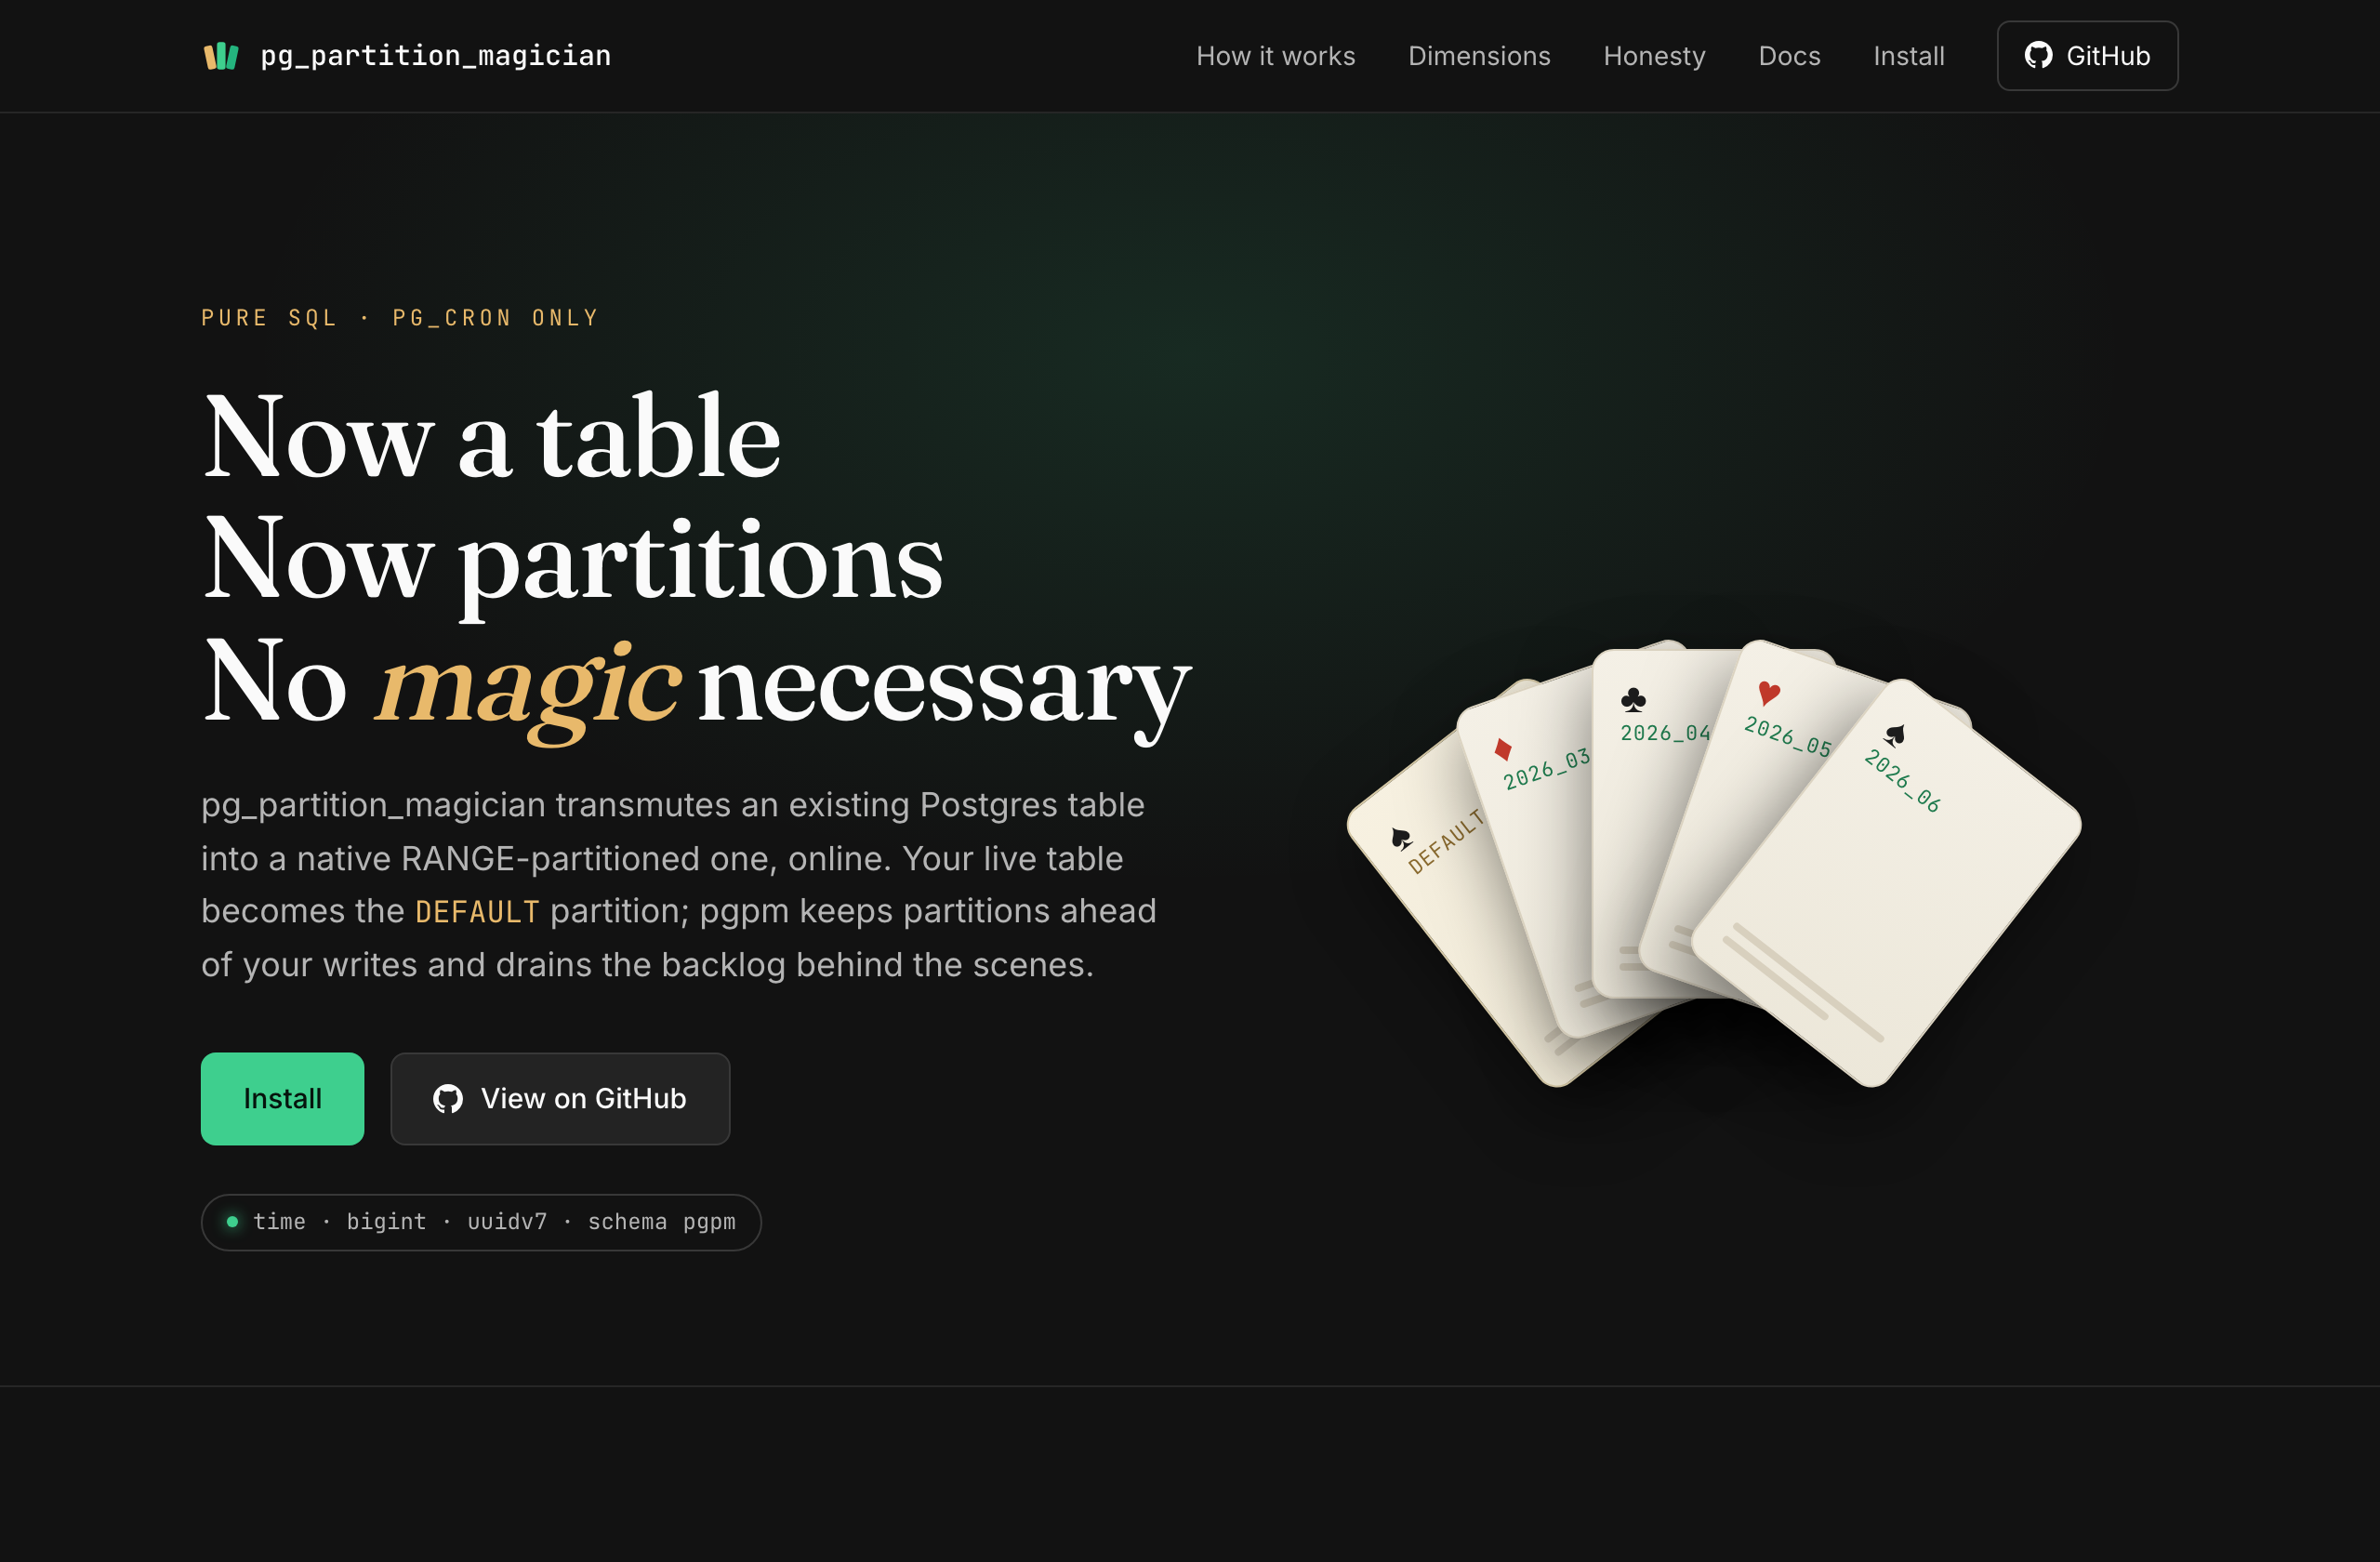
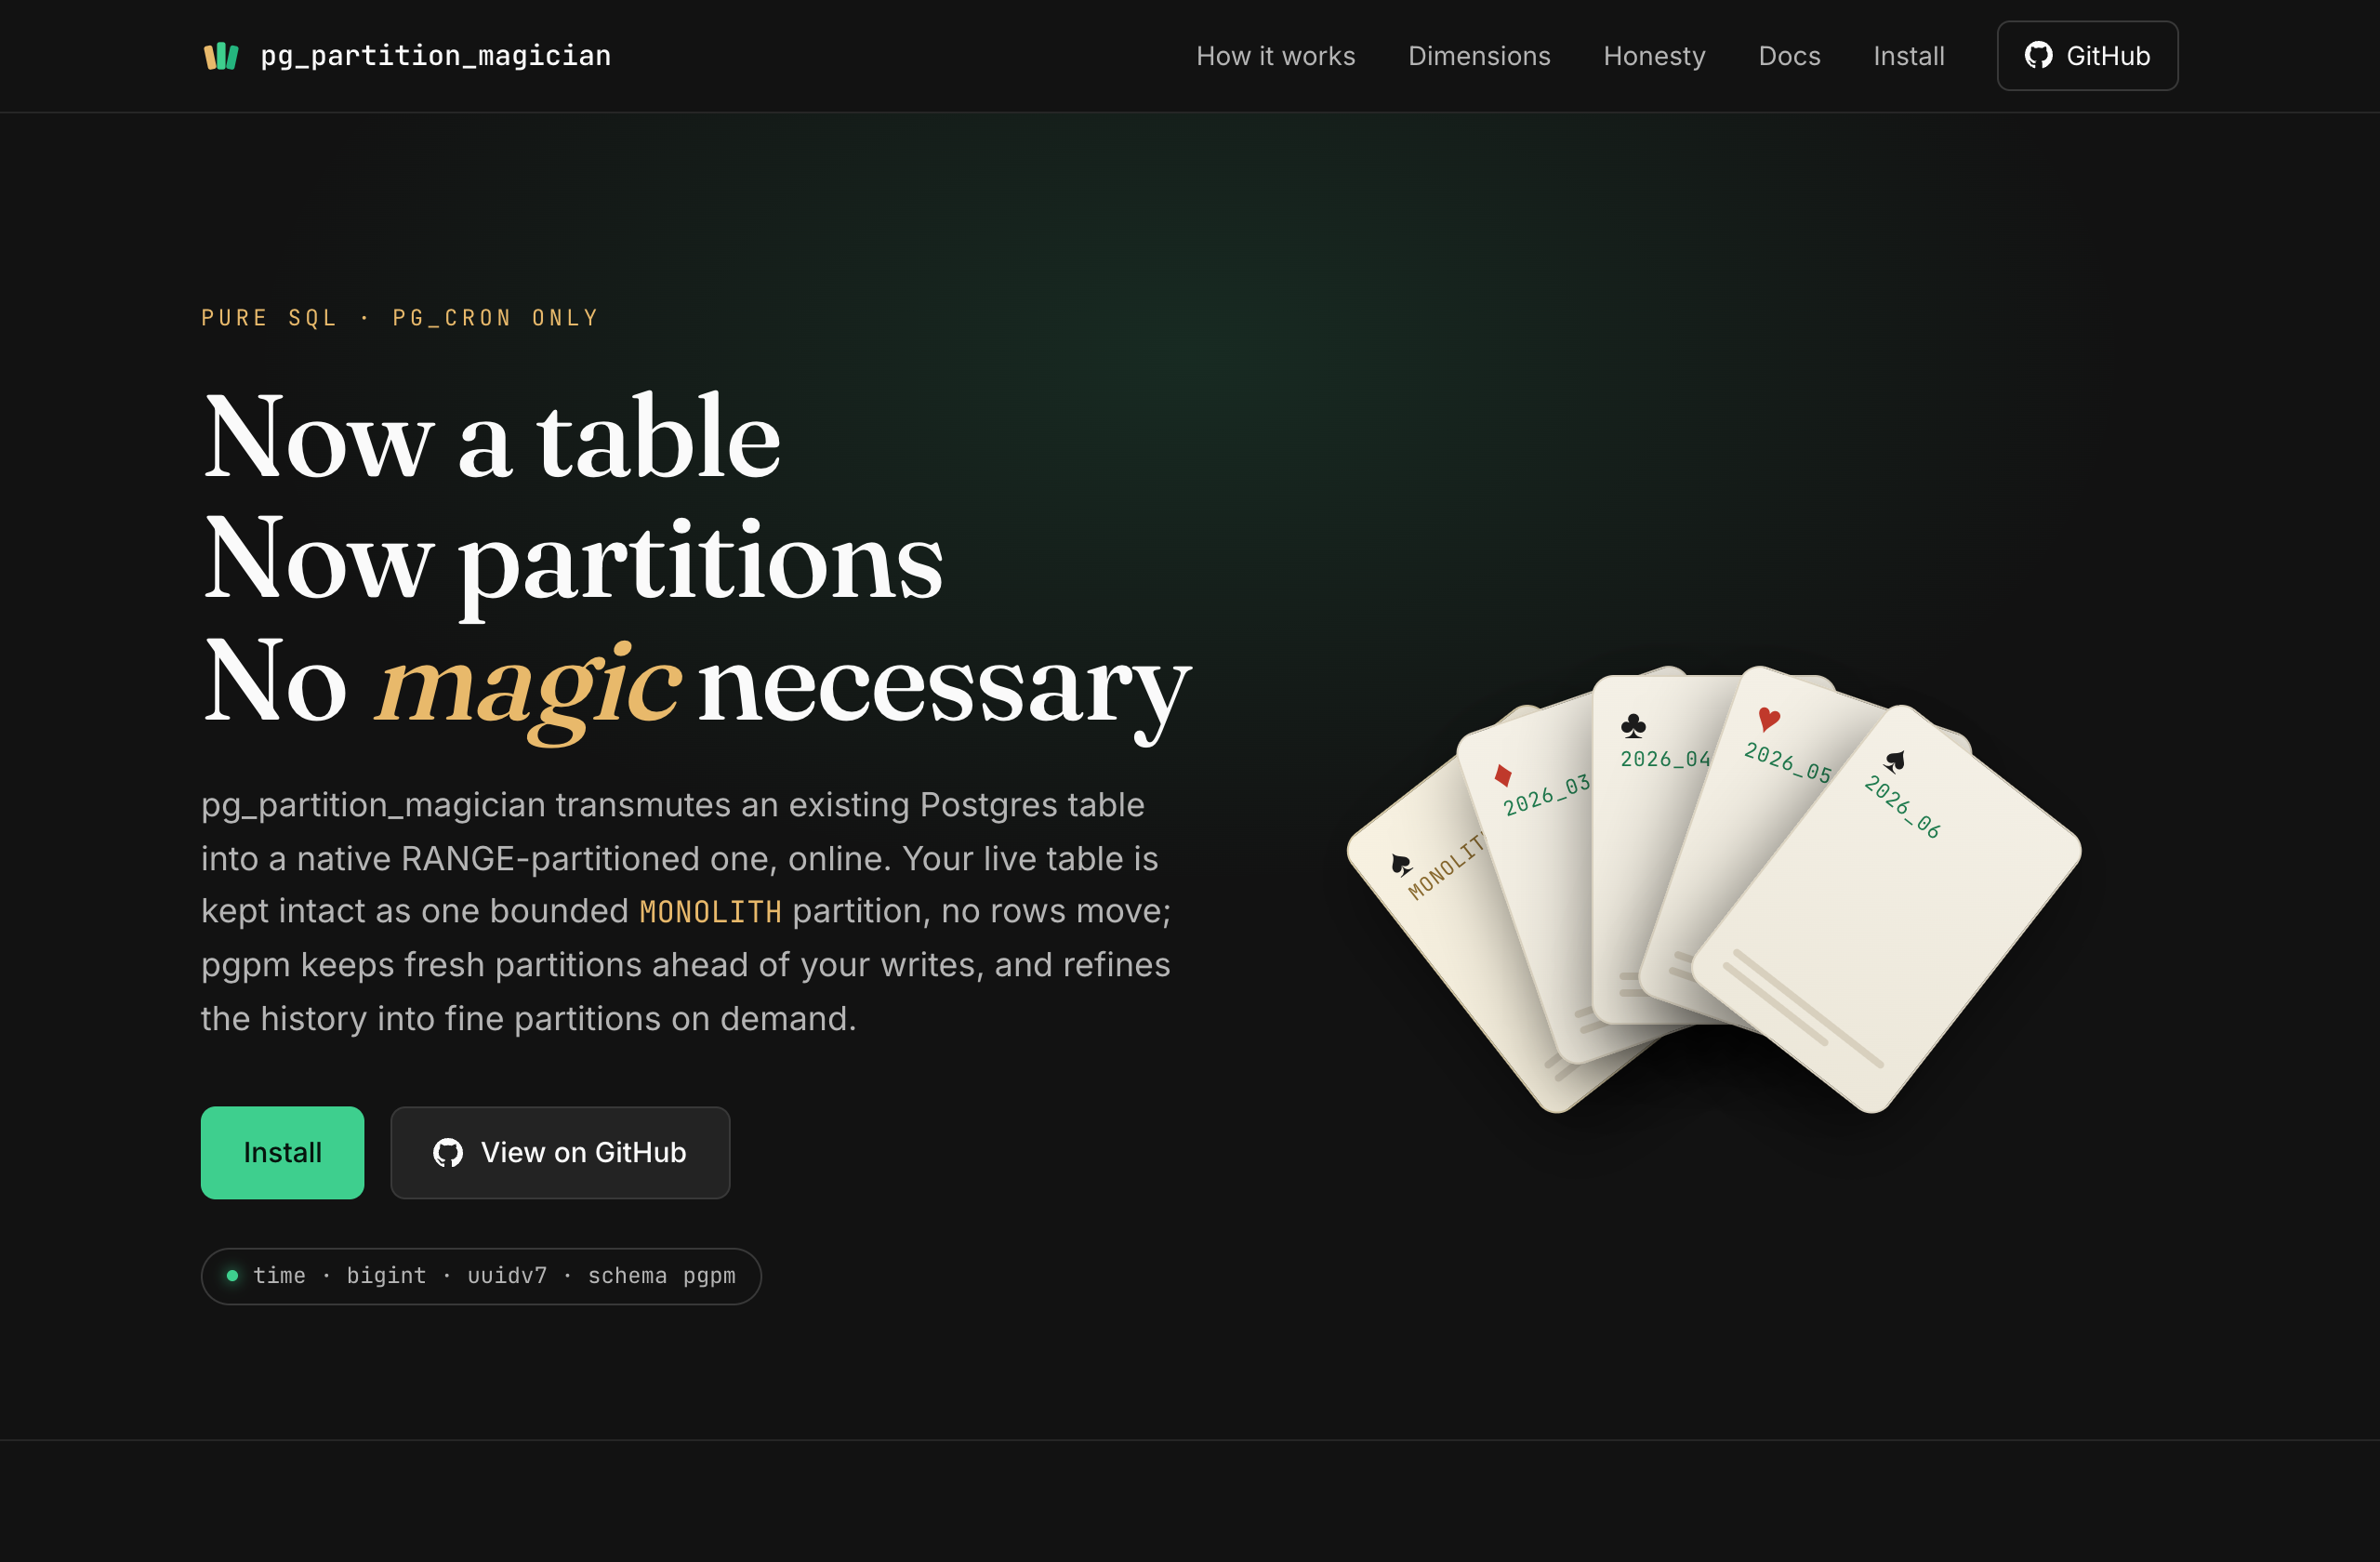
docs: rewrite the explainer for the monolith + refine model (content only) (#127)
* docs: rewrite the explainer for the monolith + refine model (content only)

The explainer still told the old story: the live table *becomes the DEFAULT*
partition and a perpetual *drain* empties the backlog. Update the content to the
shipped bounded-child model, with no change to the look, layout, animation, or chrome:

- Hero: the live table is kept intact as one bounded MONOLITH partition (no rows
  move); obtain keeps fresh partitions ahead; refine splits the history on demand.
- Move 2 (transmute): the old table attaches as the monolith child under a fresh
  empty DEFAULT net; untransmute reverses while the monolith holds the whole table.
- Move 4 (frontier): closed history lives in the coarse monolith, refined when you
  like; new rows land in obtained partitions, a stray falls to the empty DEFAULT.
- Move 5 (attach): the same NOT VALID + VALIDATE scan-skip attaches the monolith at
  cutover and every refined partition.
- Move 6: repurposed from drain to refine (copy, swap, drop; no dead tuples; the
  assistant drain demoted to clearing strays from the empty DEFAULT).
- Move 7 (maintain_all): obtain, assistant drain, retain, and optional refine.
- Honesty grid: FK note covers any row movement; DEFAULT is empty in steady state;
  the in-flight gap covers paced drain and cross-tick refine; test count 192 -> 289.

Only text and diagram labels changed; the CSS, scroll/fan JS, and all styling are
byte-for-byte unchanged.
[…]

Changed region(s): [[0.0625, 0.5571, 0.5, 0.8357], [0.5625, 0.4024, 0.875, 0.7119]]

diff --git a/index.html b/index.html
@@ -130,7 +130,7 @@
     .card .lbl { font-family: var(--font-mono); font-size: 11px; color: #6B6357; letter-spacing: 0.04em; }
     .card .rows { height: 4px; border-radius: 2px; background: #D8D0BE; }
     .card .rows + .rows { margin-top: 5px; width: 70%; }
-    /* role coding survives on the ivory faces via the label: bronze = the original DEFAULT, green = the new partitions */
+    /* role coding survives on the ivory faces via the label: bronze = the original table (now the monolith), green = the new fine partitions */
     .card.is-default { border-color: #D8CBA8; background: linear-gradient(160deg, #F7F1E1, #EFE8D5); }
     .card.is-default .lbl { color: #8A6A2E; }
     .card.is-part .lbl { color: #1E7A4D; }
@@ -405,7 +405,7 @@
       <div>
         <span class="eyebrow">Pure SQL · pg_cron only</span>
         <h1 class="display">Now a table<br>Now partitions<br>No <em>magic</em> necessary</h1>
-        <p class="lede">pg_partition_magician transmutes an existing Postgres table into a native RANGE-partitioned one, online. Your live table becomes the <code style="font-family:var(--font-mono);font-size:0.9em;color:var(--brass)">DEFAULT</code> partition; pgpm keeps partitions ahead of your writes and drains the backlog behind the scenes.</p>
+        <p class="lede">pg_partition_magician transmutes an existing Postgres table into a native RANGE-partitioned one, online. Your live table is kept intact as one bounded <code style="font-family:var(--font-mono);font-size:0.9em;color:var(--brass)">MONOLITH</code> partition, no rows move; pgpm keeps fresh partitions ahead of your writes, and refines the history into fine partitions on demand.</p>
         <div class="hero-actions">
           <a class="btn btn-primary" href="install.html">Install</a>
           <a class="btn btn-ghost" href="https://github.com/dventimisupabase/pg_partition_magician" target="_blank" rel="noopener">
@@ -418,7 +418,7 @@
 
       <div class="stage">
         <div class="fan" id="fan" aria-hidden="true">
-          <div class="card is-default"><div><div class="suit">♠</div><div class="lbl">DEFAULT</div></div><div><div class="rows"></div><div class="rows"></div></div></div>
+          <div class="card is-default"><div><div class="suit">♠</div><div class="lbl">MONOLITH</div></div><div><div class="rows"></div><div class="rows"></div></div></div>
           <div class="card is-part"><div><div class="suit red">♦</div><div class="lbl">2026_03</div></div><div><div class="rows"></div><div class="rows"></div></div></div>
           <div class="card is-part"><div><div class="suit">♣</div><div class="lbl">2026_04</div></div><div><div class="rows"></div><div class="rows"></div></div></div>
           <div class="card is-part"><div><div class="suit red">♥</div><div class="lbl">2026_05</div></div><div><div class="rows"></div><div class="rows"></div></div></div>
@@ -459,14 +459,14 @@
           <div class="beat-copy">
             <span class="move"><span class="move-n">2</span> The switch &middot; <code>transmute</code></span>
             <h3>The table you query is swapped for an identical one, mid-show.</h3>
-            <p><code>transmute()</code> renames your live table aside (<code>events</code> &rarr; <code>events_default</code>) and builds a partitioned parent under the <em>same name</em>, with the old table attached as its <code>DEFAULT</code>. Same name, same rows, a catalog-only swap the app never sees. The one requirement: the partition key must already be in the primary key (move 3); if not, <code>transmute</code> refuses and tells you how, rather than mangling it. And it reverses cleanly, until the first real partition exists, <code>untransmute</code> puts the table back exactly as it was.</p>
+            <p><code>transmute()</code> renames your live table aside and builds a partitioned parent under the <em>same name</em>, attaching the old table intact as one bounded <em>monolith</em> child that holds the whole history, with a fresh empty <code>DEFAULT</code> as the safety net. No rows move: same name, same data, a catalog-only swap the app never sees. The one requirement: the partition key must already be in the primary key (move 3); if not, <code>transmute</code> refuses and tells you how, rather than mangling it. And it reverses cleanly, while the monolith still holds the whole table, <code>untransmute</code> puts it back exactly as it was.</p>
           </div>
           <figure class="fig" aria-hidden="true">
             <div class="dg dg-switch">
               <div class="app"><code>SELECT &hellip; FROM events</code><span class="arr">&darr;</span></div>
               <div class="swapstage">
                 <div class="box parent stage-2"><span class="tag">events &middot; PARTITIONED</span></div>
-                <div class="box def stage-1"><span class="tag tag-rename">events <span class="becomes">&rarr; events_default</span></span><span class="pin">DEFAULT</span><i class="rows"></i><i class="rows"></i></div>
+                <div class="box def stage-1"><span class="tag tag-rename">events <span class="becomes">&rarr; the monolith</span></span><span class="pin">MONOLITH</span><i class="rows"></i><i class="rows"></i></div>
               </div>
             </div>
           </figure>
@@ -493,22 +493,22 @@
           <div class="beat-copy">
             <span class="move"><span class="move-n">4</span> The one rule of the act</span>
             <h3>Never touch the interval that's live.</h3>
-            <p>Everything keys off the <b style="color:var(--brass)">frontier</b>: the line between settled past and live present. Intervals behind it are <b style="color:var(--green)">closed</b>, safe to rebuild into real partitions; the one <em>straddling</em> it is <b style="color:var(--brass)">open</b>, still taking writes, and pgpm's lone rule is to leave it be. New rows land in a partition <b style="color:var(--green)">obtained</b> ahead, or in <code>DEFAULT</code>. Once the frontier passes and the interval closes, only <em>then</em> is it reorganized.</p>
+            <p>Everything keys off the <b style="color:var(--brass)">frontier</b>: the line between settled past and live present. Behind it sits the <b style="color:var(--green)">closed</b> history, in one coarse <b style="color:var(--brass)">monolith</b>, safe to refine into fine partitions whenever you like; the one <em>straddling</em> it is <b style="color:var(--brass)">open</b>, still taking writes, and pgpm's lone rule is to leave it be. Ahead of it, partitions are <b style="color:var(--green)">obtained</b> in advance, so new rows always land in a real partition (only a stray falls to the empty <code>DEFAULT</code> net). Nothing is reorganized until it has closed.</p>
           </div>
           <figure class="fig" aria-hidden="true">
             <div class="dg dg-frontier">
               <div class="writes"><span class="arr">writes &darr;</span></div>
               <div class="timeline">
-                <div class="ival part">Jan</div>
+                <div class="ival tail">Jan<span class="mini">in monolith</span></div>
                 <div class="ival part">Feb</div>
-                <div class="ival tail">Mar<span class="mini">in DEFAULT</span></div>
+                <div class="ival part">Mar</div>
                 <div class="ival open">Apr<span class="mini">open &middot; live</span></div>
                 <div class="ival future">May</div>
                 <div class="ival future">Jun</div>
                 <div class="frontier"><span>frontier &middot; now</span></div>
               </div>
               <div class="axis"></div>
-              <div class="legend"><span class="k part">real partition</span><span class="k tail">closed tail &middot; DEFAULT</span><span class="k open">open</span><span class="k future">obtained ahead</span></div>
+              <div class="legend"><span class="k part">fine partition</span><span class="k tail">in the monolith</span><span class="k open">open</span><span class="k future">obtained ahead</span></div>
             </div>
           </figure>
         </div>
@@ -518,7 +518,7 @@
           <div class="beat-copy">
             <span class="move"><span class="move-n">5</span> The misdirection</span>
             <h3>Attaching a partition looks like it needs a full scan. It doesn't.</h3>
-            <p>A normal <code>ATTACH</code> scans all of <code>DEFAULT</code> under <code>ACCESS EXCLUSIVE</code> to prove no row belongs in the new partition. pgpm proves it first: <code>CHECK&nbsp;&hellip;&nbsp;NOT&nbsp;VALID</code> is instant, then <code>VALIDATE</code> scans under a gentle <code>SHARE UPDATE EXCLUSIVE</code> lock that lets reads <em>and</em> writes continue, so the <code>ATTACH</code> skips its scan. A 4M-row attach: <strong style="color:var(--fg)">101&nbsp;ms &rarr; 0.4&nbsp;ms</strong>.</p>
+            <p>A normal <code>ATTACH</code> scans the whole table being attached under <code>ACCESS EXCLUSIVE</code> to prove every row honors the bound. pgpm proves it first: <code>CHECK&nbsp;&hellip;&nbsp;NOT&nbsp;VALID</code> is instant, then <code>VALIDATE</code> scans under a gentle <code>SHARE UPDATE EXCLUSIVE</code> lock that lets reads <em>and</em> writes continue, so the <code>ATTACH</code> skips its scan. The same move attaches the monolith at cutover and every refined partition after. A 4M-row attach: <strong style="color:var(--fg)">101&nbsp;ms &rarr; 0.4&nbsp;ms</strong>.</p>
           </div>
           <figure class="fig" aria-hidden="true">
             <div class="dg dg-lock">
@@ -536,13 +536,13 @@
         <!-- 6 -->
         <div class="beat reveal">
           <div class="beat-copy">
-            <span class="move"><span class="move-n">6</span> Vanishing the backlog &middot; <code>drain</code></span>
-            <h3>The old rows leave <code>DEFAULT</code> a chunk at a time.</h3>
-            <p>The closed tail leaves <code>DEFAULT</code> in small microbatches, <code>DELETE&nbsp;&hellip;&nbsp;RETURNING</code> a chunk, <code>INSERT</code> it home, repeat, paced and pausable so the workload never blocks. One honest cost: until an interval finishes attaching, its already-moved rows sit in an unattached child, so a mid-drain read of the parent undercounts it. <code>pgpm.snapshot</code> reads the complete set.</p>
+            <span class="move"><span class="move-n">6</span> Reshaping the history &middot; <code>refine</code></span>
+            <h3>The coarse history splits into fine partitions, by copying.</h3>
+            <p>The history starts as one coarse monolith. <code>refine</code> splits it by <em>copying</em>: it reads a range into a fresh, born-validated partition, swaps it in, and drops the source, online and a chunk at a time. Because it copies instead of deleting, there are no dead tuples and no vacuum. It is optional, a coarse monolith is a correct, permanent state, and refine is what restores partition pruning and fine-grained retention. (The leading-edge <code>DEFAULT</code> stays empty; the assistant <code>drain</code> clears the rare stray that lands there.) Because the monolith stays whole and attached until one atomic swap, refine never undercounts the parent the way the assistant <code>drain</code> can. The one honest cost is transient disk, about 2x the span while the copies and the source briefly coexist.</p>
           </div>
           <figure class="fig" aria-hidden="true">
             <div class="dg dg-drain">
-              <div class="box def drainbox"><span class="tag">DEFAULT</span><i class="lvl"></i><span class="chunk c1"></span><span class="chunk c2"></span><span class="chunk c3"></span></div>
+              <div class="box def drainbox"><span class="tag">MONOLITH</span><i class="lvl"></i><span class="chunk c1"></span><span class="chunk c2"></span><span class="chunk c3"></span></div>
               <div class="parts">
                 <div class="box part p1"><span class="tag">2026_01</span></div>
                 <div class="box part p2"><span class="tag">2026_02</span></div>
@@ -557,7 +557,7 @@
           <div class="beat-copy">
             <span class="move"><span class="move-n">7</span> The act runs itself &middot; <code>maintain_all</code></span>
             <h3>One <code>pg_cron</code> tick repeats every move, and shows its hands.</h3>
-            <p>One scheduled call ties it together: <b style="color:var(--green)">obtain</b> stocks the future, <b style="color:var(--green)">drain</b> empties the closed tail, <b style="color:var(--green)">retain</b> drops cold partitions, looping on <code>pg_cron</code> with every step written to <code>pgpm.log</code>, the magician keeping his hands open. It starts <em>paused</em>: <code>resume()</code> to go live, <code>pause()</code> to stop.</p>
+            <p>One scheduled call ties it together: <b style="color:var(--green)">obtain</b> stocks the future, the assistant <b style="color:var(--green)">drain</b> keeps the <code>DEFAULT</code> empty, <b style="color:var(--green)">retain</b> drops cold partitions, and, once you enable it, <b style="color:var(--green)">refine</b> splits the history a chunk per tick, looping on <code>pg_cron</code> with every step written to <code>pgpm.log</code>, the magician keeping his hands open. It starts <em>paused</em>: <code>resume()</code> to go live, <code>pause()</code> to stop.</p>
           </div>
           <figure class="fig" aria-hidden="true">
             <div class="dg dg-loop">
@@ -622,19 +622,19 @@
         </div>
         <div class="truth reveal">
           <div class="mk"><svg viewBox="0 0 20 20"><path d="M7 10l2 2 4-4"/><circle cx="10" cy="10" r="7.5"/></svg></div>
-          <div><h3>Foreign keys, preserved</h3><p>pgpm never rewrites the primary key, so the unique key an incoming FK references survives the conversion. With <code>p_incoming_fks =&gt; 'preserve'</code>, each FK is dropped for the move and re-added against the new parent once the drain is idle, no denormalization.</p></div>
+          <div><h3>Foreign keys, preserved</h3><p>pgpm never rewrites the primary key, so the unique key an incoming FK references survives the conversion. With <code>p_incoming_fks =&gt; 'preserve'</code>, each FK is dropped for any row movement and re-added against the new parent once the move is idle, no denormalization.</p></div>
         </div>
         <div class="truth reveal">
           <div class="mk"><svg viewBox="0 0 20 20"><path d="M10 3l6 3v4c0 4-2.6 6-6 7-3.4-1-6-3-6-7V6z"/></svg></div>
-          <div><h3>A safety net, always</h3><p>The <code>DEFAULT</code> partition stays. A row with no real partition lands there, never lost, and a check function flags it.</p></div>
+          <div><h3>A safety net, always</h3><p>The <code>DEFAULT</code> partition is always present, and empty in steady state. A row with no real partition lands there, never lost, and a check function flags it.</p></div>
         </div>
         <div class="truth reveal">
           <div class="mk"><svg viewBox="0 0 20 20"><circle cx="9" cy="9" r="5.5"/><path d="M13 13l4 4"/></svg></div>
-          <div><h3>One gap, in the open</h3><p>While an interval drains, its moved rows live in a not-yet-attached child, so a mid-drain read of the parent undercounts it, and a write to a moved row no-ops. <code>pgpm.snapshot</code> reads the complete set; append-only and time-local tables are immune, and nothing is lost.</p></div>
+          <div><h3>One gap, in the open</h3><p>While the paced assistant <code>drain</code> runs, its rows briefly live in a not-yet-attached child, so a mid-move read of the parent undercounts it and a write to a moved row no-ops. <code>refine</code> never opens this gap (it copies, leaving every row in the monolith until an atomic swap). <code>pgpm.snapshot</code> reads the complete set, <code>drain_all()</code> is gap-free too, and nothing is lost.</p></div>
         </div>
         <div class="truth reveal">
           <div class="mk"><svg viewBox="0 0 20 20"><path d="M4 10l3 3 9-9"/><path d="M4 16h12"/></svg></div>
-          <div><h3>Proven across versions</h3><p>192 tests on PostgreSQL 15-18, all three install channels, every partition kind.</p></div>
+          <div><h3>Proven across versions</h3><p>289 tests on PostgreSQL 15-18, all three install channels, every partition kind.</p></div>
         </div>
       </div>
     </div>